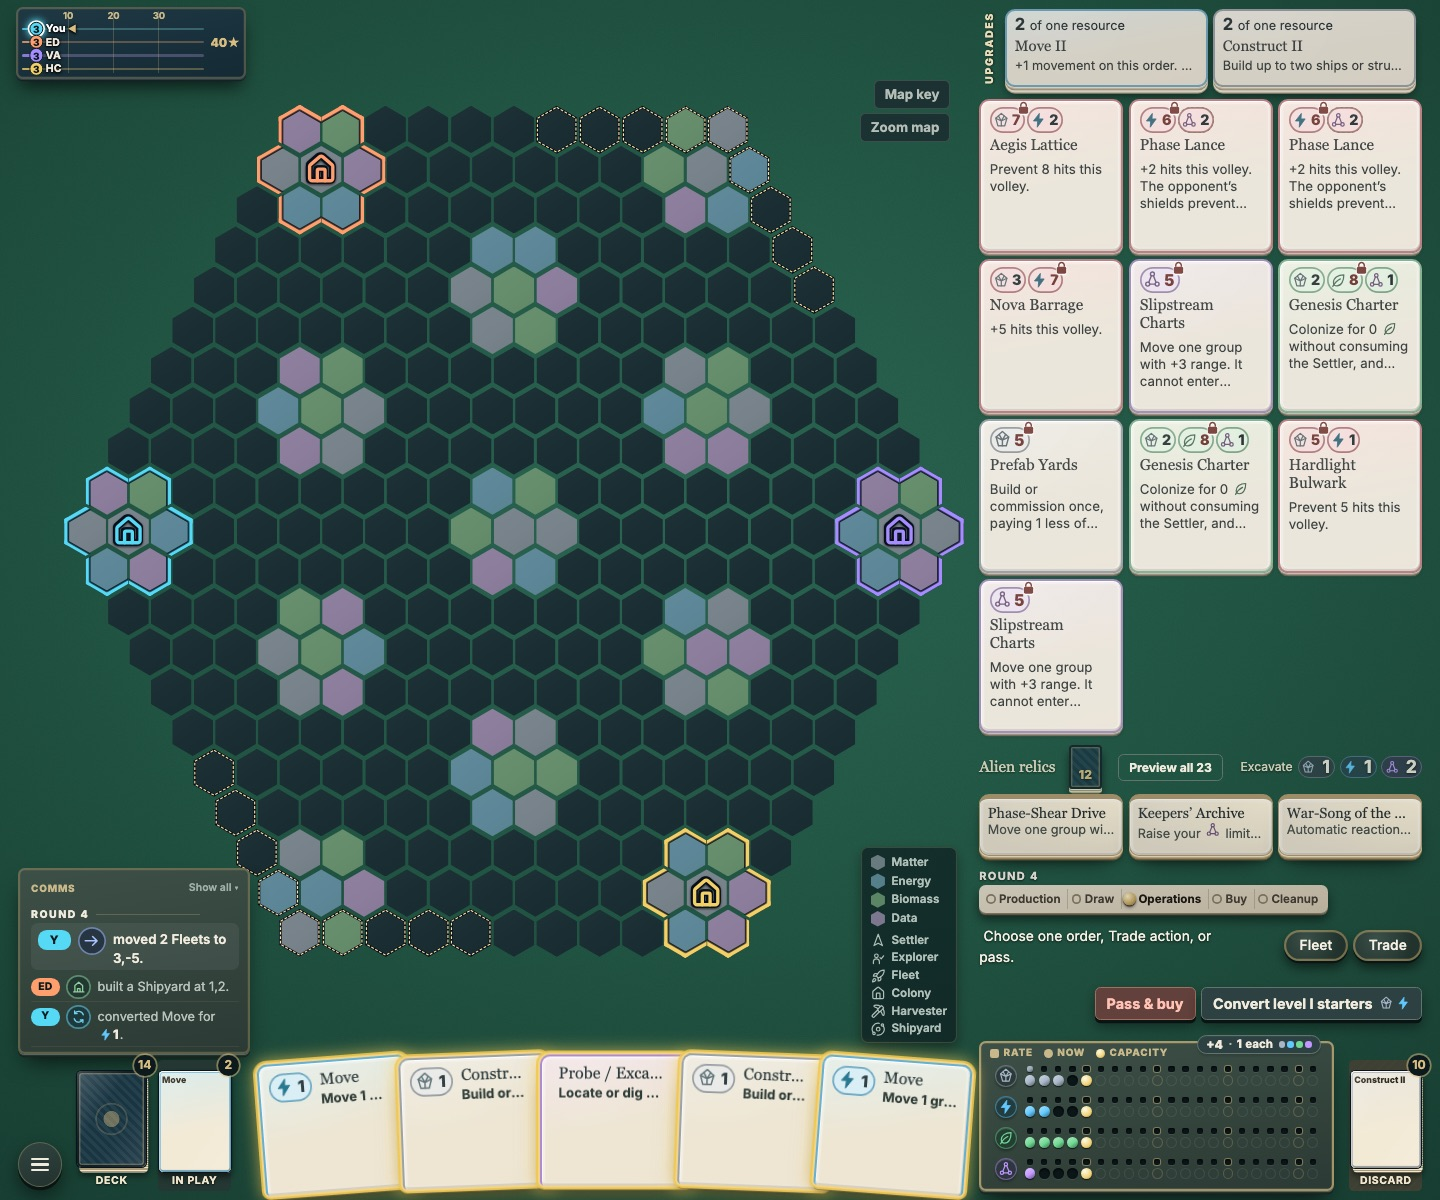
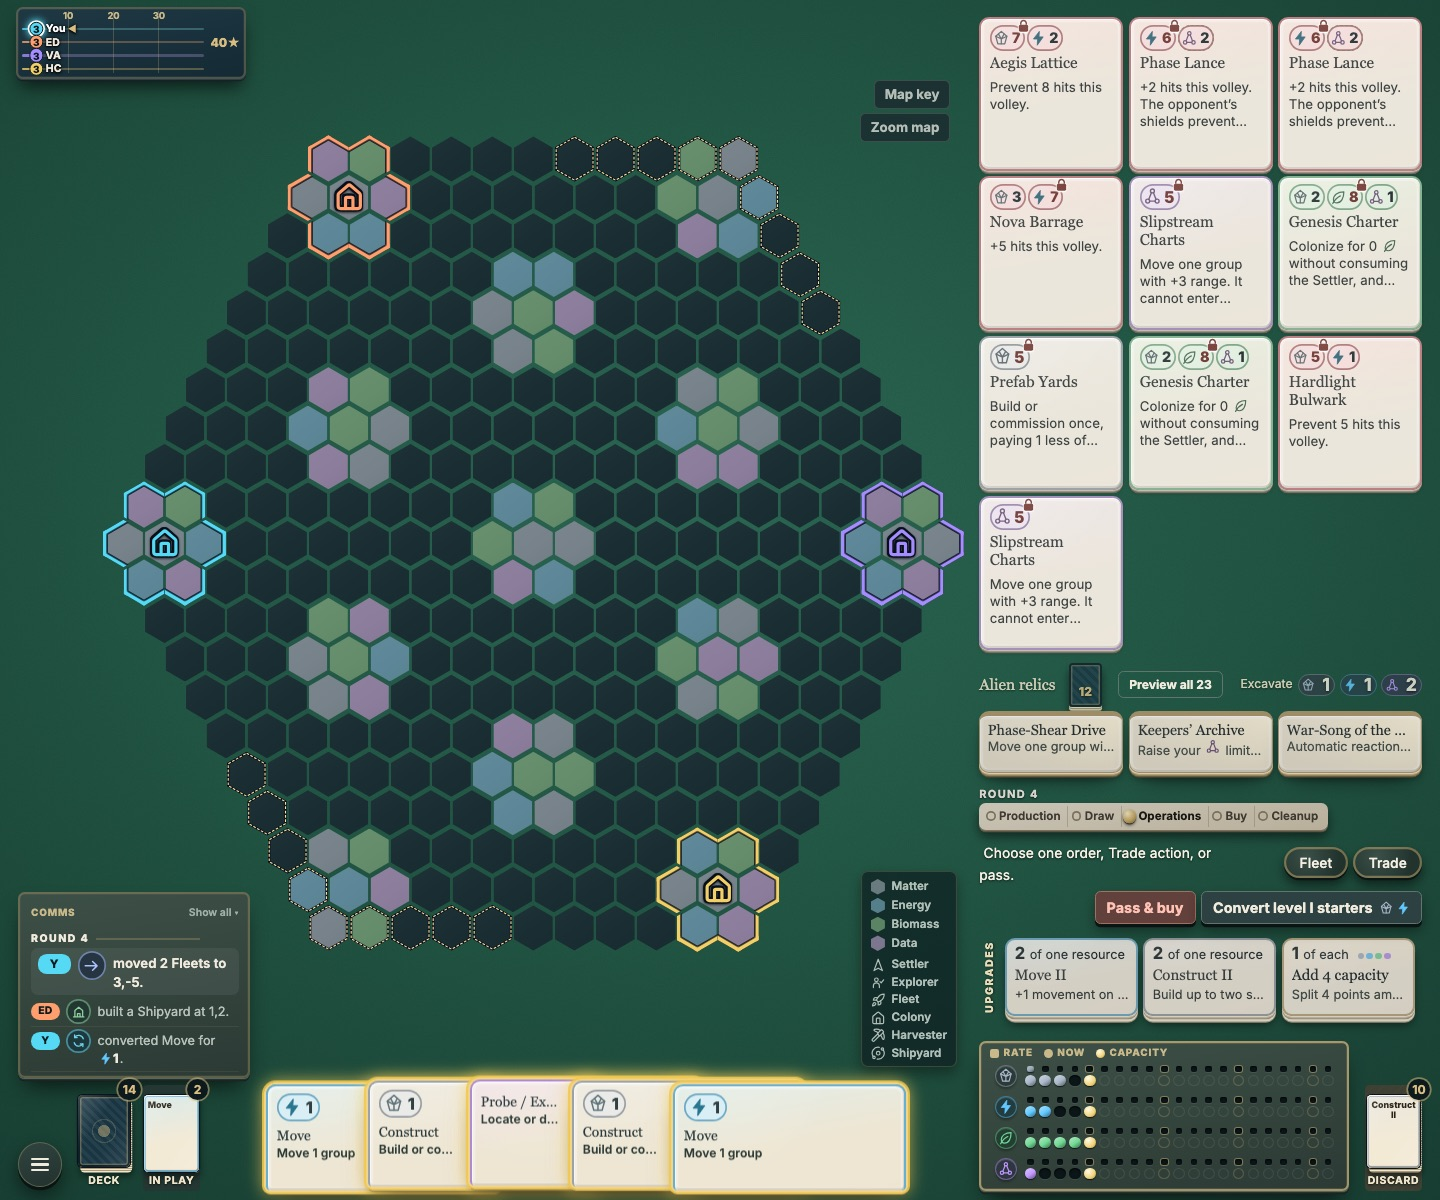
Fanned hand held low: cards overlap, each showing a narrow left strip (cost, name, one-line summary), lifting whole on point/focus/tap; the market fills the supply's full width; on an upright iPad the turn's buttons sit beside the turn prompt

diff --git a/prototypes/galactic-reach/rulebook.html b/prototypes/galactic-reach/rulebook.html
@@ -198,7 +198,7 @@
       <section id="buy">
         <h2>09 / Improve your deck</h2>
         <p id="deck-inspection">Click <strong>Deck</strong> to inspect the cards remaining in your draw pile. Cards are grouped by name, starter status, and level, with quantities. Their draw order is hidden. Opening this view does not draw, shuffle, or change cards. Other factions cannot inspect your deck. Replays show deck size only.</p>
-        <p id="player-mat">You keep <strong>Deck</strong>, <strong>In play</strong>, and <strong>Discard</strong> as separate piles; on a desktop window they lie as card piles (the deck face down, In play and Discard with their top card face up, each stack as thick as its count): Deck and In play left of your hand, Discard in the bottom-right corner, with the turn’s main button (<strong>Pass &amp; buy</strong> or <strong>Finish Buy</strong>) and <strong>Convert level I starters</strong> just above it. Your player mat lies in the bottom-right corner beside Discard, with <strong>Add 4 capacity</strong> as a card in the Upgrades group just above it, showing its current price, the same amount of each resource (for example “2 of each”), and Trade with the bank on the mat itself: drag from one resource’s Now row onto another resource to pay 4 for 1 (or choose the Now row, then the resource to receive). While you drag, the resources you can receive light up and a note shows the trade, or why it cannot be made. Click a pile to inspect it. In play holds cards you have already used this round; Discard holds cards available for a later reshuffle, including newly gained cards. Inspecting a pile never moves its cards. Your player mat has a band for each resource with two aligned rows of pip slots, and no numbers: the pips carry the values, and every fifth slot is marked so a row counts at a glance. <strong>Rate</strong> (the smaller pips) is filled up to that resource’s production per round. <strong>Now</strong> (the larger pips) is filled up to your stock. A gold pip just right of the last slot you may fill marks the resource’s limit: every slot left of it is a place a resource can go, and the slots past it are closed, so raising the limit moves the gold pip to the right and opens more slots. A value past the end of the row shows its number there. Your hand is held as a slightly fanned row of card tops in front of the board: each top shows the card’s name and level, what it converts into in its corner, and a one-line summary of its order. A held card shows no price; prices appear only in the market. A card whose order you can use now is outlined in gold. Point at a card, or Tab to its buttons, to lift it and show the whole card at reading size beside the map; choose an order or conversion with its <strong>Use order</strong> or <strong>Convert</strong> button. You can also drag a card from your hand. While you drag, the hexes where its order can start light up; dropping it on one starts the order there, exactly as choosing it from <strong>Orders from your hand</strong> in that hex’s Sector Scan would. A Move dropped on your units chooses them to move, and a Construct or Colonize dropped on a hex opens that hex’s choices. Drop a card on your reserves to convert it, or anywhere on the map to play an order that needs no hex. Dropping it anywhere else, or pressing Escape, plays nothing. On a desktop window the whole table fits on screen without scrolling: the board, your hand, standings, reserves and the open tab of your controls stay in view together.</p>
+        <p id="player-mat">You keep <strong>Deck</strong>, <strong>In play</strong>, and <strong>Discard</strong> as separate piles; on a desktop window they lie as card piles (the deck face down, In play and Discard with their top card face up, each stack as thick as its count): Deck and In play left of your hand, Discard in the bottom-right corner, with the turn’s main button (<strong>Pass &amp; buy</strong> or <strong>Finish Buy</strong>) and <strong>Convert level I starters</strong> just above it. Your player mat lies in the bottom-right corner beside Discard, with <strong>Add 4 capacity</strong> as a card in the Upgrades group just above it, showing its current price, the same amount of each resource (for example “2 of each”), and Trade with the bank on the mat itself: drag from one resource’s Now row onto another resource to pay 4 for 1 (or choose the Now row, then the resource to receive). While you drag, the resources you can receive light up and a note shows the trade, or why it cannot be made. Click a pile to inspect it. In play holds cards you have already used this round; Discard holds cards available for a later reshuffle, including newly gained cards. Inspecting a pile never moves its cards. Your player mat has a band for each resource with two aligned rows of pip slots, and no numbers: the pips carry the values, and every fifth slot is marked so a row counts at a glance. <strong>Rate</strong> (the smaller pips) is filled up to that resource’s production per round. <strong>Now</strong> (the larger pips) is filled up to your stock. A gold pip just right of the last slot you may fill marks the resource’s limit: every slot left of it is a place a resource can go, and the slots past it are closed, so raising the limit moves the gold pip to the right and opens more slots. A value past the end of the row shows its number there. Your hand is held low along the table’s bottom edge as a fanned hand of overlapping cards: each card shows a narrow strip along its left edge with what it converts into, its name and a one-line summary of its order. A held card shows no price; prices appear only in the market. A card whose order you can use now is outlined in gold. Point at a card, or Tab to its buttons, to lift it and show the whole card at reading size beside the map; choose an order or conversion with its <strong>Use order</strong> or <strong>Convert</strong> button. You can also drag a card from your hand. While you drag, the hexes where its order can start light up; dropping it on one starts the order there, exactly as choosing it from <strong>Orders from your hand</strong> in that hex’s Sector Scan would. A Move dropped on your units chooses them to move, and a Construct or Colonize dropped on a hex opens that hex’s choices. Drop a card on your reserves to convert it, or anywhere on the map to play an order that needs no hex. Dropping it anywhere else, or pressing Escape, plays nothing. On a desktop window the whole table fits on screen without scrolling: the board, your hand, standings, reserves and the open tab of your controls stay in view together.</p>
         <p id="market">As soon as you pass, you may buy any number of the <strong>ten face-up market cards</strong> you can afford. Pay each card’s price separately. Each purchase refills immediately, and you may buy a newly revealed card during the same Buy turn. There is no purchase-count limit. Choose Finish Buy whenever you are done. Move and Construct are not for sale in this playtest; your six starters are your only basic cards. Colonize and Probe are bundled only with unit commissions, and Excavate is the second option on the Explorer-bundled card. You cannot return to Operations this round.</p>
         <p>The market draws from one shuffled supply of 62 cards: two copies of each of 22 normal-deck designs and 9 military designs. A bought normal card enters your discard pile. A bought military card joins your <a href="#military-deck">military deck</a> instead. Refill the empty slot immediately from the supply. When the supply runs out, the market shrinks. A Wonder gives its Prestige the moment you buy it. A card you cannot buy right now is shaded in the market. Its price sits in the card’s top-left corner: a padlock marks each resource whose price is above your limit for it, and a dashed outline each one you hold too little of. The reason shows when you raise the card and on hover, for example <em>Needs 2 more Data</em> or <em>Raise Energy capacity to 6</em>.</p>
         <p>During the same Buy turn you may also:</p>

diff --git a/prototypes/galactic-reach/styles.css b/prototypes/galactic-reach/styles.css
@@ -2578,7 +2578,7 @@ html { -webkit-text-size-adjust: 100%; text-size-adjust: 100%; }
    stays big. ==== */
 @media (min-width: 600px) and (min-height: 600px) and (orientation: landscape) {
   .table-wide #market-row { grid-template-columns: repeat(var(--mcols, 5), minmax(0, 1fr)) !important; grid-auto-rows: auto !important; align-content: start; gap: 6px !important; }
-  .table-wide .market-cards #market-row > .game-card { justify-self: center; align-self: start !important; width: calc(var(--mcard-h, 140px) * 63 / 88); }
+  .table-wide .market-cards #market-row > .game-card { justify-self: stretch; align-self: start !important; width: auto; }
   .table-wide .market-cards #market-row > .game-card:not(:hover):not(:focus):not(:focus-within) { height: var(--mcard-h, 140px) !important; grid-template-rows: auto auto auto minmax(0, 1fr) auto auto !important; }
   /* The effect takes exactly the height left under the name and price, so it never runs past
      the card; a line cut short fades out. */
@@ -2621,4 +2621,36 @@ html { -webkit-text-size-adjust: 100%; text-size-adjust: 100%; }
   .upgrade-group #upgrade-market { display: grid; grid-template-columns: repeat(3, minmax(0, 1fr)); gap: 6px; }
   .upgrade-group #upgrade-market .game-card { min-height: 0; padding: 6px 7px; }
   .upgrade-group #upgrade-market :is(.card-art, .card-lore, .card-limit-note) { display: none; }
+}
+
+/* ==== Your hand as a fanned hand of cards: each card shows only a narrow strip along its left
+   edge (cost, name and a one-line summary, left-aligned), the cards overlap heavily, and the
+   hand sits low so the map gets the height. Point at, focus or tap a card to lift it whole. ==== */
+@media (min-width: 600px) and (min-height: 600px) {
+  .app-shell, .has-saved-table .app-shell, .has-replay .app-shell, .app-shell.app-shell:has(#hand-row > :nth-child(7)) { --front-h: 96px !important; }
+  /* Each card shows a strip of up to 92 units, less when a big hand must fit the row. */
+  #hand-row { --top-w: 210px !important; --strip-w: 92px; --step: min(calc(var(--strip-w) - var(--top-w)), calc((100cqw - var(--top-w)) / (var(--n) - 1) - var(--top-w))) !important; }
+  #hand-row .game-card:not(:hover):not(:focus-within) {
+    grid-template-columns: minmax(0, 1fr) !important; grid-template-areas: "type" "cost" "gain" "name" "head" "effect" "buttons" "note" !important; grid-template-rows: none !important; grid-auto-rows: auto;
+    align-content: start; row-gap: 2px !important; padding-top: 6px !important; padding-left: 8px !important;
+  }
+  #hand-row .game-card:not(:hover):not(:focus-within) .card-footer { grid-row: auto !important; justify-self: start; }
+  /* Resting cards keep their buttons focusable but out of the strip (focus lifts the card). */
+  #hand-row .game-card:not(:hover):not(:focus-within) .card-buttons { position: absolute !important; width: 1px; height: 1px; margin: 0 !important; overflow: hidden; clip-path: inset(50%); }
+  #hand-row .game-card:not(:hover):not(:focus-within) .card-limit-note,
+  #hand-row .game-card:not(:hover):not(:focus-within):has(.card-headline) .card-effect { display: none !important; }
+  /* A card without a one-line summary shows its effect as one line instead. */
+  #hand-row .game-card:not(:hover):not(:focus-within):not(:has(.card-headline)) .card-effect { display: block !important; font-size: 11px !important; line-height: 1.15 !important; white-space: nowrap; overflow: hidden; text-overflow: ellipsis; margin: 0 !important; }
+  #hand-row .game-card:not(:hover):not(:focus-within) :is(.card-name, .card-headline) { font-size: 12.5px !important; line-height: 1.15 !important; white-space: nowrap; overflow: hidden; text-overflow: ellipsis; }
+  #hand-row .game-card:not(:hover):not(:focus-within) .card-headline { font-size: 11px !important; font-weight: 600; }
+  /* Overlap is the fan; a tilt would push corners past the table's edge. */
+  #hand-row > .game-card { --cf-fan: 0deg !important; }
+  /* The last card shows whole, so its text can use the full width. */
+  #hand-row .game-card:last-child:not(:hover):not(:focus-within) { padding-right: 8px !important; }
+}
+/* Upright, the turn's buttons move up beside the turn prompt (between the comms card and the
+   mat), clear of where a lifted hand card rises. */
+@media (min-width: 600px) and (min-height: 600px) and (orientation: portrait) {
+  #hand-panel .hand-tools { grid-column: 2 !important; grid-row: 6 !important; align-self: end !important; justify-self: stretch !important; flex-wrap: wrap; justify-content: flex-start; gap: 6px; margin: 0 0 6px !important; }
+  .console-nav { align-self: center !important; margin: 0 !important; }
 }

diff --git a/prototypes/galactic-reach/app.js b/prototypes/galactic-reach/app.js
@@ -4733,10 +4733,12 @@ function createGalacticReach(options = {}) {
     if (!width || !height || !count) return;
     const best = [3, 4, 5].map(cols => {
       const rows = Math.ceil(count / cols);
-      return { cols, h: Math.min((width - (cols - 1) * gap) / cols * 88 / 63, (height - (rows - 1) * gap) / rows) };
+      const rowH = (height - (rows - 1) * gap) / rows;
+      return { cols, rowH, h: Math.min((width - (cols - 1) * gap) / cols * 88 / 63, rowH) };
     }).reduce((a, b) => b.h > a.h ? b : a);
+    // The layout closest to real cards wins; its cards then fill their cells, leaving no gaps.
     row.style.setProperty('--mcols', String(best.cols));
-    row.style.setProperty('--mcard-h', `${Math.floor(best.h)}px`);
+    row.style.setProperty('--mcard-h', `${Math.floor(best.rowH)}px`);
   }
 
   // On a desktop window the market and relics lie on the table together; Fleet opens over them.

diff --git a/changes/gr-ui-followup.md b/changes/gr-ui-followup.md
@@ -3,4 +3,4 @@ compat: safe
 title: The turn lies with your seat
 pr: 74
 ---
-The round's phases, the turn prompt and Fleet/Trade now sit at the bottom of the supply, next to your hand and the turn's buttons, and the supply starts at the top. On your turn your hand glows and gently breathes instead of a "Your turn" banner ([Shared board](rulebook.html#shared-board)). Market cards show their whole name and as much of their effect as fits, so they read without pointing at them; on wide windows market cards are real card shapes, as large as the space allows. A short key of the terrain colours and pieces lies in the map's empty corner. Your hand, the market, your mat and the map read first; the relics, upgrades, phases and comms sit back until you point at them. The mat no longer offers a Discard: resources above a limit are still discarded automatically ([Resources](rulebook.html#resources)). An Upgrades group directly above your mat holds the starter upgrades and Add 4 capacity as cards, each with its current price.
+The round's phases, the turn prompt and Fleet/Trade now sit at the bottom of the supply, next to your hand and the turn's buttons, and the supply starts at the top. On your turn your hand glows and gently breathes instead of a "Your turn" banner ([Shared board](rulebook.html#shared-board)). Market cards show their whole name and as much of their effect as fits, so they read without pointing at them; on wide windows market cards are real card shapes, as large as the space allows. A short key of the terrain colours and pieces lies in the map's empty corner. Your hand, the market, your mat and the map read first; the relics, upgrades, phases and comms sit back until you point at them. The mat no longer offers a Discard: resources above a limit are still discarded automatically ([Resources](rulebook.html#resources)). An Upgrades group directly above your mat holds the starter upgrades and Add 4 capacity as cards, each with its current price. Your hand is a fanned hand held low, each card showing a narrow strip with its name; point at a card to lift it whole. The market fills the supply's full width.
